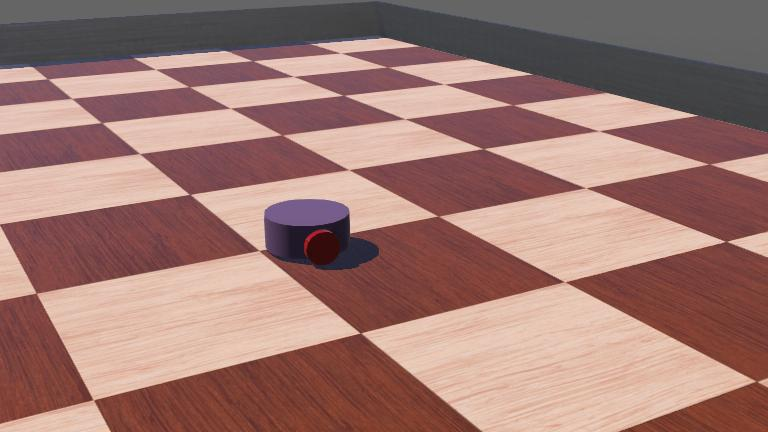
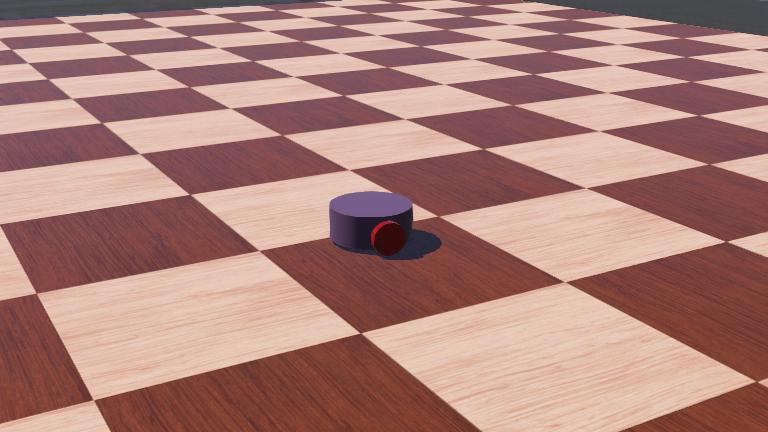
Kinematic controller

Changed region(s): [[0.0, 0.0, 1.0, 0.3009], [0.3438, 0.4213, 0.5938, 0.6319]]

diff --git a/Simulacion/Robot_Movil/controllers/controlador/controlador.py b/Simulacion/Robot_Movil/controllers/controlador/controlador.py
@@ -196,8 +196,8 @@ def main(robot):
     xd[1, :] = 0*np.ones((1, t.shape[0]))
 
     xdp = np.zeros((2, t.shape[0]), dtype = np.double)
-    xdp[0, :] = 0.5*np.ones((1, t.shape[0]))
-    xdp[1, :] = 0*np.ones((1, t.shape[0]))
+    xdp[0, :] = 0.0*np.ones((1, t.shape[0]))
+    xdp[1, :] = 0.0*np.ones((1, t.shape[0]))
 
     # Signals designed to move the motors
     u = np.zeros((2, t.shape[0]), dtype = np.double)
@@ -221,12 +221,12 @@ def main(robot):
     # Parameters of the robot
     r = 0.02
     l = 0.11
-    a = 0.02
+    a = 0.055
     L = [r, l ,a]
 
     # Control gains
-    k1 = 1.0
-    k2 = 0.05
+    k1 = 1
+    k2 = 0.5
 
     # Get initial position
     x[: , 0] = get_states(robot, gps, imu, time_step, L)
@@ -237,6 +237,9 @@ def main(robot):
             tic = time.time()
             # Control law
             u[:, k] = law_control(xd[:, k], xdp[:, k], x[:, k], k1, k2, L)
+            print(xd[:, k])
+            print(x[:, k])
+            print(u[:, k])
             w = transformation(u[:, k], L)
 
             # Send control values to the robot
